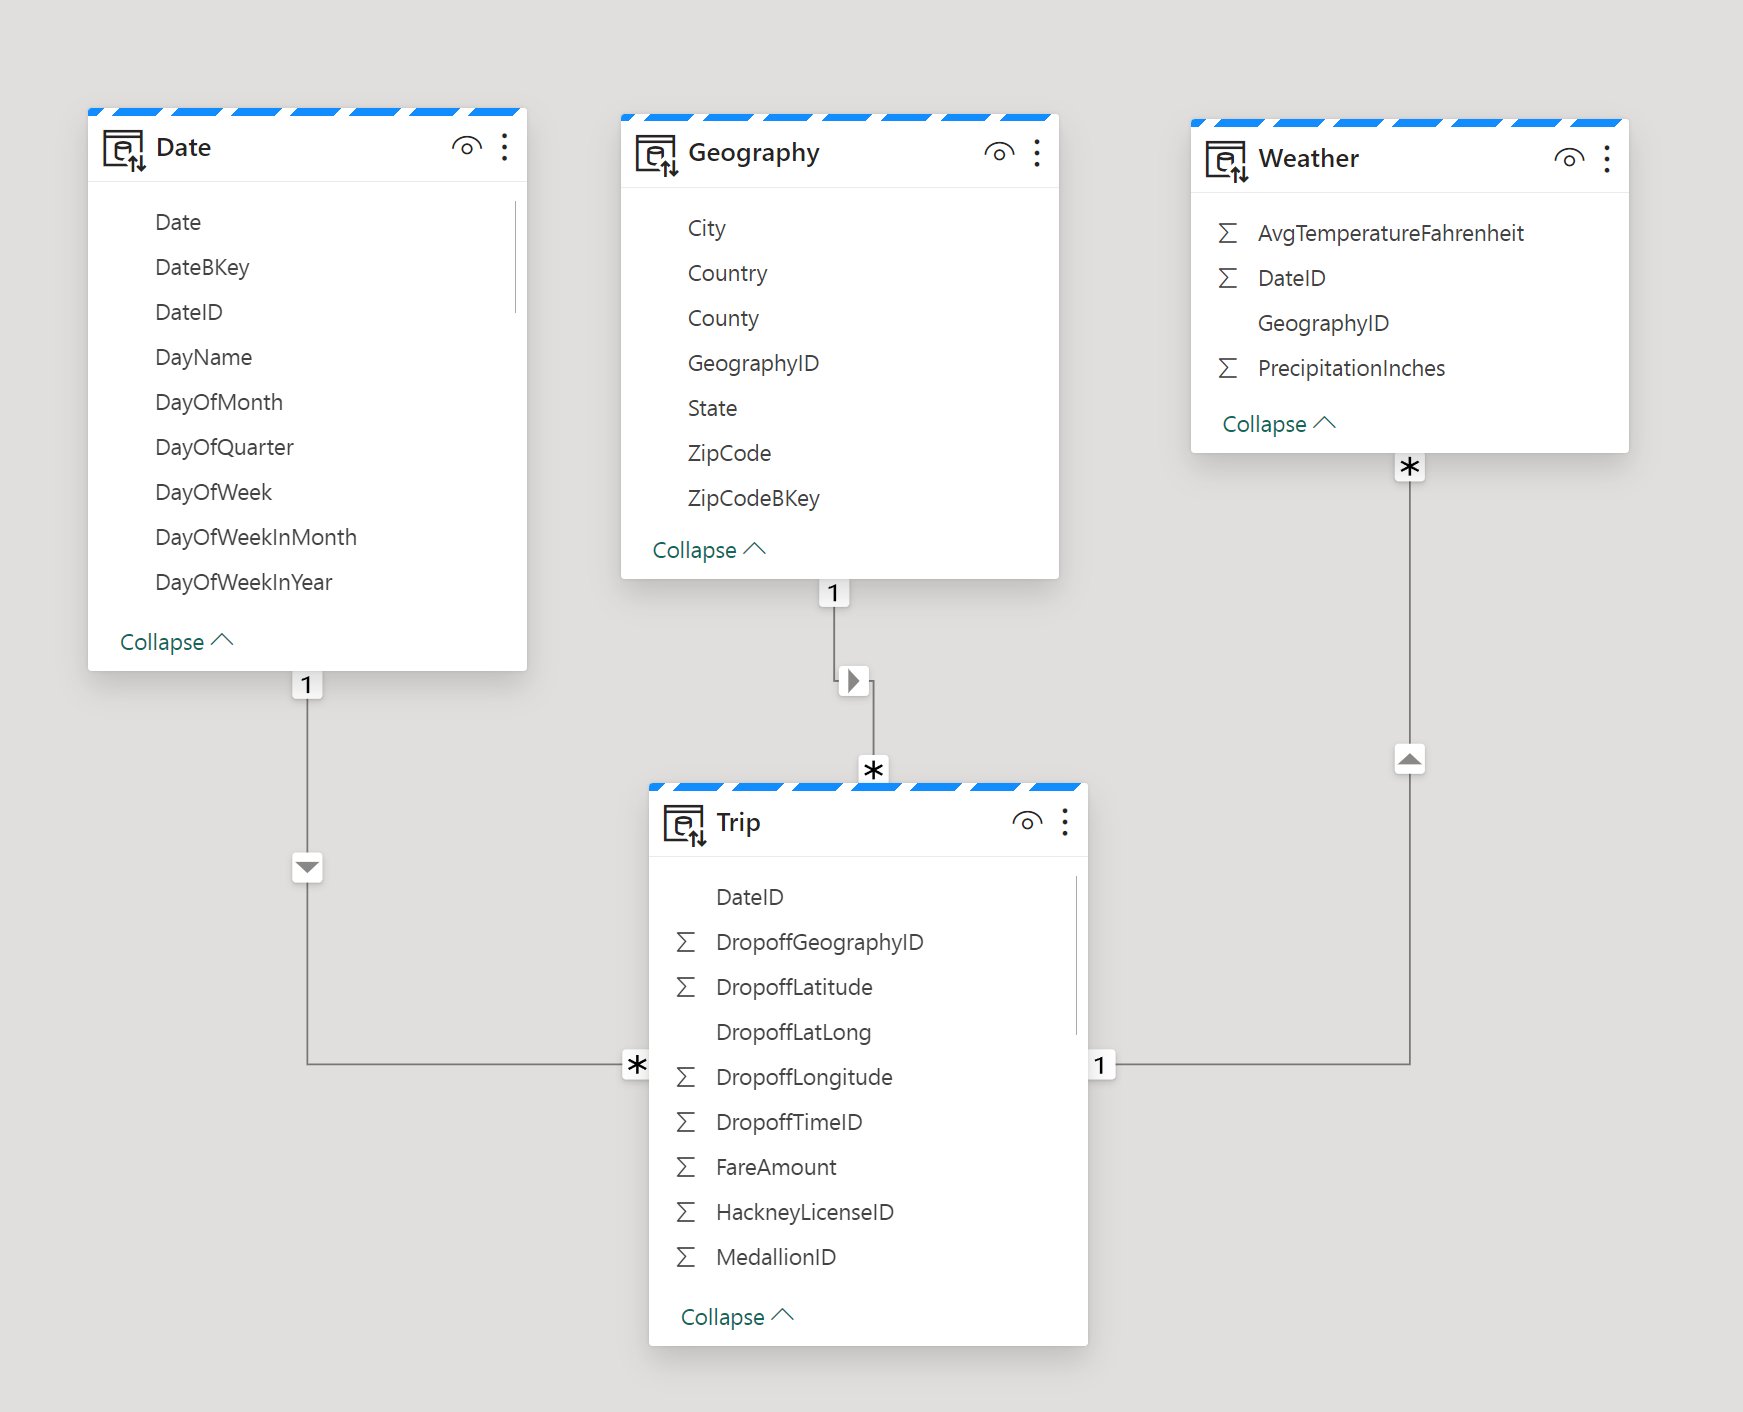
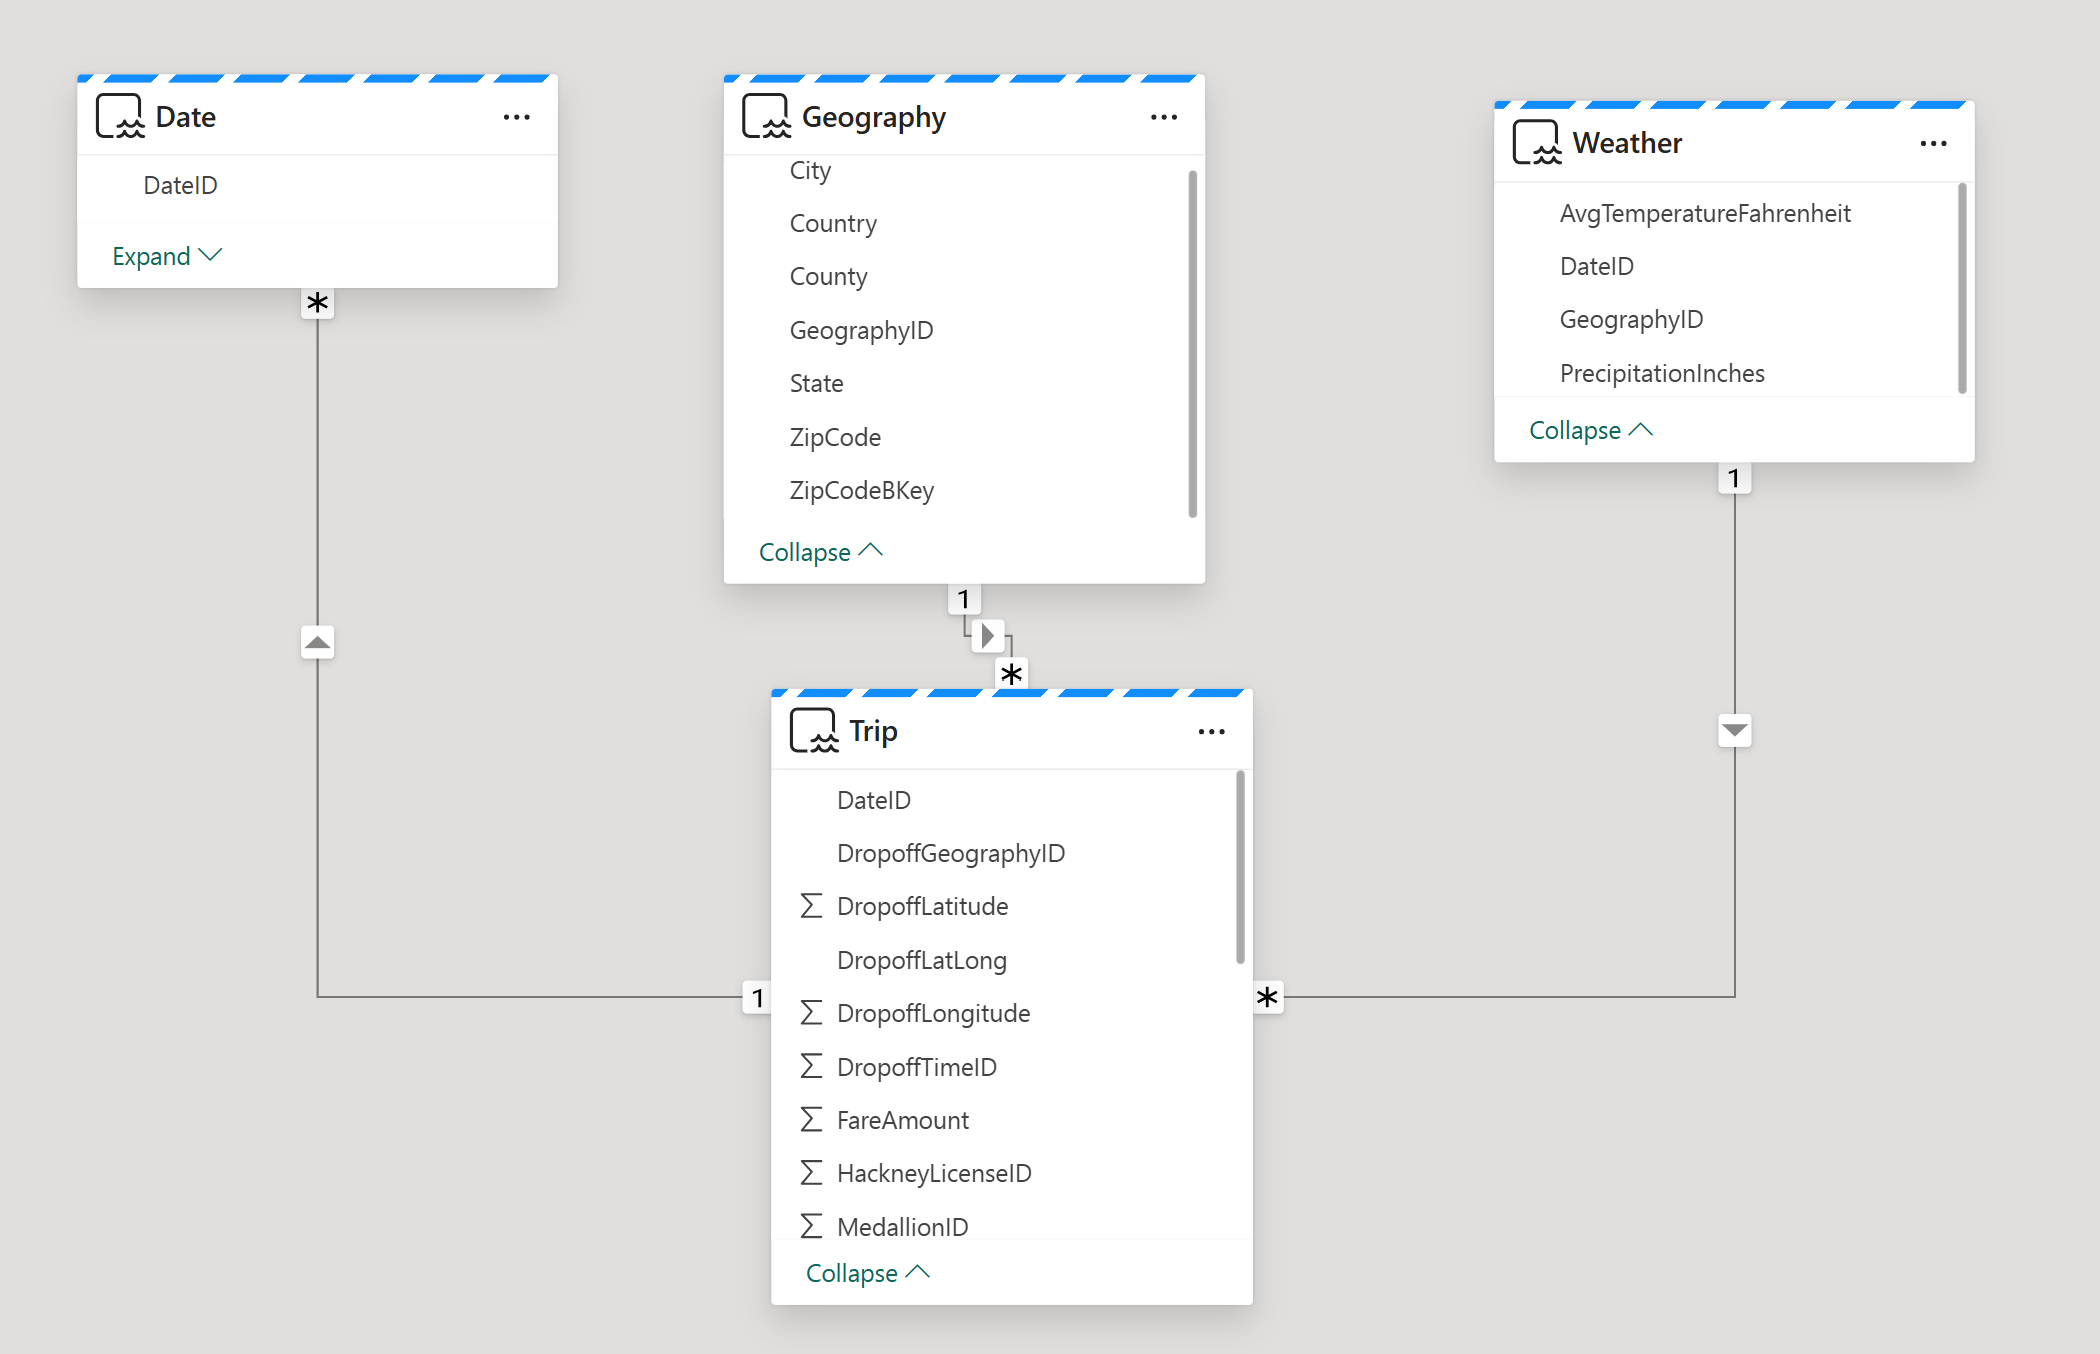
bug fix for #135 and #117

diff --git a/Instructions/Labs/14-create-a-star-schema-model.md b/Instructions/Labs/14-create-a-star-schema-model.md
@@ -60,16 +60,23 @@ Now you'll create relationships between the tables to accurrately analyze and vi
      *Note: A default semantic model is created automatically when you create a Warehouse or SQL analytics endpoint in Microsoft Fabric, and it inherits the business logic from the parent Lakehouse or Warehouse. A semantic model that you create yourself, as we've done here, is a custom model that you can design and modify according to your specific needs and preferences. You can create a custom semantic model by using Power BI Desktop, Power BI service, or other tools that connect to Microsoft Fabric.*
 
 1. Select **Open data model from the ribbon**.
-   
+
     Now, you'll create relationships between the tables. If you're familiar with creating relationships in Power BI desktop, this will look familiar!
 
     *Reviewing the star schema concept, we'll organize the tables in our model into a Fact table and Dimension tables. In this model, the **Trip** table is our fact table, and our dimensions are **Date**, **Geography**, and **Weather**.*
 
-1. Create a relationship between the **Date** table and the **Trip** table using the **DateID** column. **Select the DateID column** in the **Date** table and **drag and drop it on top of the DateID column in the Trip table**. Alternatively, you can select **Manage relationships** from the ribbon, followed by **New relationship**.
+1. Create a relationship between the **Date** table and the **Trip** table using the **DateID** column.
 
-1. Ensure the relationship is a **One to many** relationship from the **Date** table to the **Trip** table.
+    **Select the DateID column** in the **Date** table and *drag and drop it on top of the DateID column in the Trip table*.
 
-1. Create relationships to the **Trip** fact table from the **Geography** and **Weather** dimensions, repeating the step above. Also ensure these relationships are **One to many**, with one occurance of the key in the dimension table, and many in the fact table. 
+    Ensure the relationship is a **One to many** relationship from the **Date** table to the **Trip** table.
+
+1. Create two more relationships to the **Trip** fact table as follows:
+
+   - **Geography | GeographyID** to **Trip | DropoffGeographyID** (1:Many)
+   - **Weather | GeographyID** to **Trip | DropoffGeographyID** (1:Many)
+
+    > **Note**: you need to change the relationship default cardinality to **1:Many** for both relationships.
 
 1. Drag the tables into position so that the **Trip** fact table is located at the bottom of the diagram, and the remaining tables, which are dimension tables, are located around the fact table.
 
